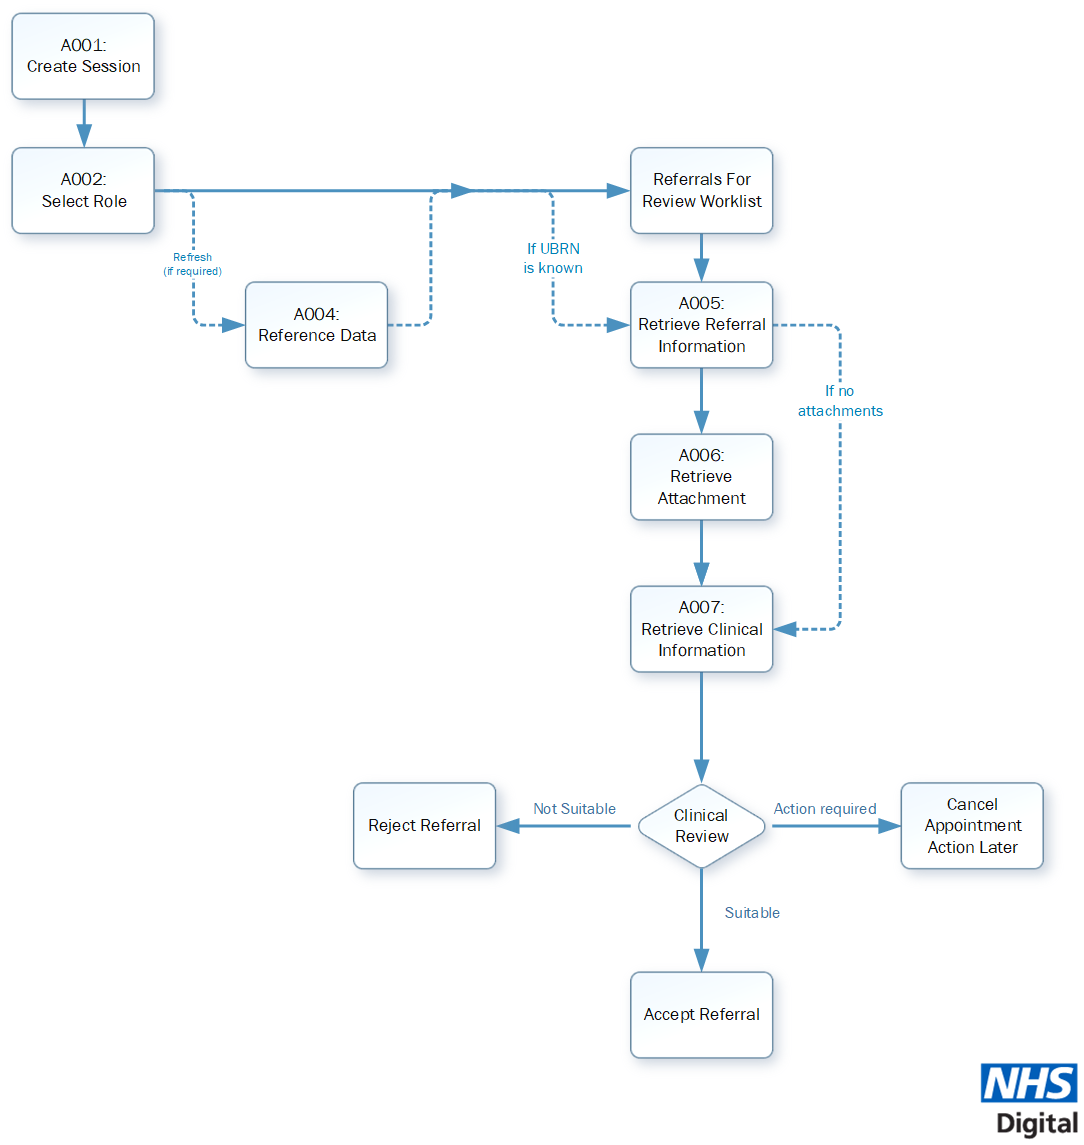
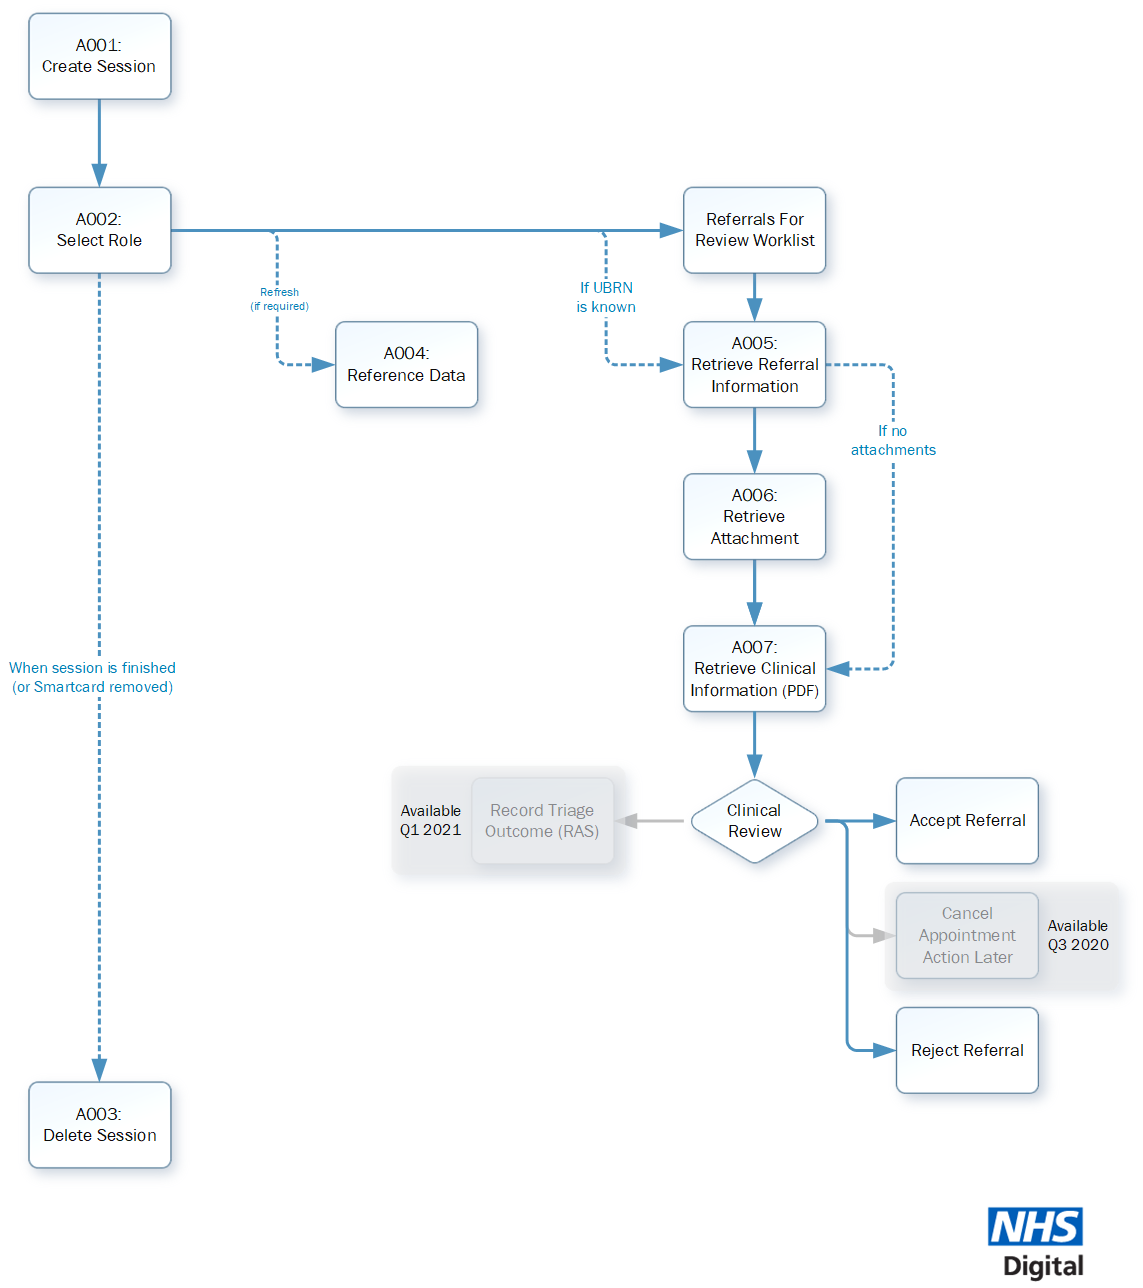
Various content updates

diff --git a/pages/getstarted/getstarted_get_connected.md b/pages/getstarted/getstarted_get_connected.md
@@ -16,63 +16,20 @@ To use the e-RS Integration APIs you must:
 3. Be issued with a unique Endpoint (and specific test data for use in development environments)
 
 ## How to get connected
-Follow the instructions listed [here](https://digital.nhs.uk/services/path-to-live-environments/development-environment) to connect to the NHS Digital Development Environment and request and endpoint, then you can access the following [NHS e-Referral Service (e-RS) URLs](https://digital.nhs.uk/services/path-to-live-environments/development-environment#development-nhs-e-referral-service-e-rs-urls) for development and testing.
+To get connected to the e-RS API Development environment you will need the following:
 
+- A connection to the Health and Social Care Network (HSCN) - the secure NHS network (if you do not have a connection or are experiencing problems connecting, contact your network provider)
+- Access to test data (email: testdata@nhs.net)
+- NHS Smartcards - if you do not have a valid smartcard for development please email: platforms.supportdesk@nhs.net
+- To register the messaging product using a Manufacturer, product and version (MPV) form if required
+- To register your message handling service with the Spine by requesting an endpoint (an authorised connection to Spine) to be created unless you have an endpoint administrator in your organisation who can do this for you - please complete the endpoint admin access request form (epr) to manage your own endpoints
+- To register your Fully Qualified Domain Name (FQDN) with the NHS DNS team
+- The Identity Agent Client software  
 
-<!--
-To request access to a test environment to connect to for development and testing purposes, please contact [platforms.supportdesk@nhs.net](mailto:platforms.supportdesk@nhs.net) and request the following:
+More detailed guidance of the connection process can be found [here](https://digital.nhs.uk/services/path-to-live-environments/development-environment). In all correspondence with NHS Digital please make it clear you are trying to connect to the **e-RS APIs in the development environment (DEV1)**.
 
-1. Access to the e-RS Integration APIs in the e-RS DEV1 development environment
-2. Allocation of an e-RS Integration API Test Pack for e-RS DEV1
-3. Issue of Smartcard(s) for e-RS development  
-  (If you already have smartcard please include the UUIDs so they can be re-used if possible)
+## Development URLs
+Once connected you can access the following [NHS e-Referral Service (e-RS) URLs](https://digital.nhs.uk/services/path-to-live-environments/development-environment#development-nhs-e-referral-service-e-rs-urls) for development and testing.
 
-#### Using existing smartcards
-Suppliers with existing smartcards in Spine Development can have these remotely updated with the relevant Registration Authority (RA), enabling the allocated UUIDs to be issued locally, please include your Spine Development UUID in your initial request to the Platforms Support Desk (platforms.supportdesk@nhs.net) if this is required.
-
-## Further details on connecting
-
-#### Generating a Certificate Signing Request
-
-You will also need to generate and submit a Certificate Signing Request (CSR) and a Private Key to obtain an endpoint certificate for the requested FQDN.
-
-1. The CSR must have a key length of 2048.
-2. The common name must be set to the FQDN value.
-
-We recommend using [OpenSSL](http://slproweb.com/products/Win32OpenSSL.html) for this.
-
-Once installed, Open Command Prompt and run the below command to configure the `openssl.cfg` file:
-
-```shell
-C:\OpenSSL-Win32\bin>set OPENSSL_CONF=C:\OpenSSL-Win32\bin\openssl.cfg
-```
-
-Change the directory to `C:\OpenSSL-Win32\bin` and run the below command to generate the CSR by replacing _"Test-FQDN"_ and the org code, e.g. _"O=ROB"_, with yours:
-
-```shell
-openssl req -new -newkey rsa:2048 -nodes -out Test-FQDN.cfh.nhs.uk.csr -keyout Test-FQDN.cfh.nhs.uk.key -subj "/C=GB/ST=/L=na/O=ROB/OU=na/CN=Test-FQDN.cfh.nhs.uk"
-```
-
-The CSR along with the private key will be generated and available in `C:\OpenSSL-Win32\bin` folder as per the above FQDN details.
-
-Please specify alongside the request to the Platforms Support Desk the need to be allocated a ‘NHS e-RS-API Testing Pack’.
-
-#### Registry Settings ##
-
-Please install “IAConfig2.msi” by downloading the IAConfig.zip archive from [http://nww.hscic.gov.uk/dir/downloads/index.html#ia_config](http://nww.hscic.gov.uk/dir/downloads/index.html#ia_config) (Can only be accessed via N3)
-
-Once installed you should be able to apply the DEV Registry settings to access the e-RS/DEV1 environment.
-
-#### Identity Agent ##
-
-Please install the Identity Agent and Middleware from [http://nww.hscic.gov.uk/dir/downloads/index.html](http://nww.hscic.gov.uk/dir/downloads/index.html) (Can only be accessed via HSCN/N3)
-
-#### Unblocking IP addresses ##
-
-If you want to unblock certain IP addresses as part of this process, please email the [Platforms Support Desk](platforms.supportdesk@nhs.net).
-
-#### Installing ROOT and SUBCA Certificates
-
-Once you have received a certificate from our Platforms Support Desk you will need to follow a few simple steps that will allow you to begin your e-Referral Service Integration journey.
-
-You need to install ROOT and SUBCA certificates, download the [Certificate Installation Guide](https://developer.nhs.uk/wp-content/uploads/2018/01/Install-ROOTCA-and-SUBCA-certificates-v1.0.pdf) for more details. -->
+## Further assistance
+For further assistance with the connection process please contact [platforms.supportdesk@nhs.net](mailto:platforms.supportdesk@nhs.net). Alternatively, for assistance relating specifically to the e-RS APIs and their functionality please contact [nhserspartners@nhs.net](mailto:nhserspartners@nhs.net).  

diff --git a/pages/explore/creating_referrals.md b/pages/explore/creating_referrals.md
@@ -7,9 +7,9 @@ permalink: /creating_referrals.html
 summary: "How to create new e-referrals from within other systems using the e-RS integration APIs"
 ---
 
-###### Status: ![Live](images/icons/api_live.png)
+##### Status: ![Live](images/icons/api_live.png)
 
-#### Definition
+## Definition
 
 This page describes the APIs required to conduct a search for services relevant for the selected patient, create an e-referral with a shortlist of directly and/or in-directly bookable services or create an e-referral for a Referral Assessment Service (RAS). The APIs also allow for the initial upload of attachments (Sometimes known as "The referral letter") and generate a confirmation letter for the patient. The search limits results to services which are appropriate for patient and the referring organisation based on the commissioning rules that apply to the authenticated user and/or the patient.
 
@@ -21,25 +21,30 @@ The creation of an e-referral to a service set up as a RAS is different to other
 Clinical information should be collated into an attachment and added to the referral, it cannot currently be uploaded as separate structured data.   
 </div>   
 
-#### The following APIs can be used to create an e-referral
+## The following APIs can be used to create an e-referral
 
-##### Authentication and Authorisation
+### Authentication and Authorisation
 * [A001 – Create Professional Session](explore_endpoint_a001.html) ![Live](images/icons/api_live.png)
 * [A002 – Professional Session Select Role](explore_endpoint_a002.html) ![Live](images/icons/api_live.png)
 * [A003 – Delete Professional Session](explore_endpoint_a003.html) ![Live](images/icons/api_live.png)
 
-##### Reference Data
+### Reference Data
 * [A004 - Retrieve Reference Data (STU3)](explore_endpoint_a004.html) ![Live](images/icons/api_live.png)
 
-##### Create Referral
+### Create Referral
 * [A010 - Patient Service Search](explore_endpoint_a010.html) ![Live](images/icons/api_live.png)
 * [A011 - Create Referral](explore_endpoint_a011.html) ![Live](images/icons/api_live.png)
 * [A021 - Create Referral and Send for Triage](explore_endpoint_a021.html) ![Live](images/icons/api_live.png)
 * [A020 - Upload File To Document Store](explore_endpoint_a020.html) ![Live](images/icons/api_live.png)
 * [A012 - Maintain Referral Letter](explore_endpoint_a012.html) ![Live](images/icons/api_live.png)
-* [A019 - Generate Patient Letter](explore_endpoint_a019.html) ![Live](images/icons/api_live.png)
+* [A019 - Generate Patient Letter](explore_endpoint_a019.html) ![Live](images/icons/api_live.png) with shortlist and details of how to book an appointment.
 
+### Book Appointment
+* Search for appointment slots (Coming in Q4 2020)
+* Book appointment slot (Coming in Q4 2020)
+* Defer booking to provider, if no slots are available (Coming in Q4 2020)
+* Generate patient letter with appointment confirmation details (Coming in Q4 2020)
 
-#### Logical Process Diagram
+## Logical Process Diagram
 
 ![Creating Referrals](images/explore/creating_referrals.png)

diff --git a/pages/explore/explore_endpoint_catalogue.md b/pages/explore/explore_endpoint_catalogue.md
@@ -4,7 +4,7 @@ keywords: endpoint, catalogue
 sidebar: overview_sidebar
 toc: false
 permalink: /explore_endpoint_catalogue.html
-summary: "Catalogue of all currently available external e-Referral API endpoints"
+summary: "Catalogue of all currently available external NHS e-Referral Service (e-RS) API endpoints"
 ---
 
 ## Live FHIR v3 APIs  
@@ -43,13 +43,14 @@ summary: "Catalogue of all currently available external e-Referral API endpoints
 
 | ID | Name                                                   | Expected release | FHIR Version |
 |----|--------------------------------------------------------|:----------------:|:------------:|
-|A015|[Retrieve Appointment Slots](explore_endpoint_a015.html)|      Q3 2020     |     STU3     |
-|A016|[Book Appointment](explore_endpoint_a016.html)          |      Q3 2020     |     STU3     |
-|A017|[Defer Booking to Provider](explore_endpoint_a017.html) |      Q3 2020     |     STU3     |
-|A018|[Re-book Appointment](explore_endpoint_a018.html)       |      Q4 2020     |     STU3     |
+|A015|[Retrieve Appointment Slots](explore_endpoint_a015.html)|      Q4 2020     |     STU3     |
+|A016|[Book Appointment](explore_endpoint_a016.html)          |      Q4 2020     |     STU3     |
+|A017|[Defer Booking to Provider](explore_endpoint_a017.html) |      Q4 2020     |     STU3     |
+|A0XX|[UBRN List]()                                           |      Q4 2020     |     STU3     |
 
 ## Retired APIs
 
-| ID | Name | Status | Retirement Date |
-|----|------|--------| :-------------: |
-|A009|[Generic Service Search (Alpha)](explore_endpoint_a009.html)| ![Retired](images/icons/api_retired.png) | OCT 2019 |
+| ID | Name | Status | Retirement Date | Notes |
+|----|------|--------| :-------------: | ----- |
+|A009|[Generic Service Search (Alpha)](explore_endpoint_a009.html)| ![Retired](images/icons/api_retired.png) | OCT 2019 | Experimental API, not progressed to production |
+|A018|[Re-book Appointment (Alpha)](explore_endpoint_a018.html) | ![Retired](images/icons/api_retired.png) | JUN 2020 | Prototype API shelved for future development as required |

diff --git a/pages/explore/receiving_referrals.md b/pages/explore/receiving_referrals.md
@@ -9,7 +9,7 @@ summary: "How to receive e-referrals into other systems using the e-RS integrati
 
 #### Definition
 
-This page describes the functionality available for receiving e-referrals into external software systems including how to retrieve the "Referrals for Review" worklist, the Clinical Referral Information (CRI) and any referral attachments (Sometimes known as "The referral letter") from the NHS e-Referral Service (e-RS). Further APIs also allow sending the result of a clinical review back to e-RS (i.e. Accept or Reject). These APIs have been developed in accordance with the [FHIR STU3](http://hl7.org/fhir/STU3/) specification, guidance for developers is available online [here](http://hl7.org/fhir/STU3/overview-dev.html).
+This page describes the functionality available for receiving e-referrals into other software systems including how to retrieve the "Referrals for Review" worklist, the Clinical Referral Information (CRI) and any referral attachments (Sometimes known as "The referral letter") from the NHS e-Referral Service (e-RS). Further APIs also allow sending the result of a clinical review back to e-RS (i.e. Accept or Reject). These APIs have been developed in accordance with the [FHIR STU3](http://hl7.org/fhir/STU3/) specification, guidance for developers is available online [here](http://hl7.org/fhir/STU3/overview-dev.html).
 
 #### The following APIs are used to receive e-referrals from e-RS
 
@@ -31,6 +31,7 @@ This page describes the functionality available for receiving e-referrals into e
 * [A013 – Accept Referral](explore_endpoint_a013.html) ![Live](images/icons/api_live.png)
 * [A014 – Reject Referral](explore_endpoint_a014.html) ![Live](images/icons/api_live.png)
 * [A022: Cancel Appointment, Action Later](explore_endpoint_a022.html) *(Available Q3 2020)*
+* Record triage outcome (for RAS) *(Coming in Q1 2021)*
 
 
 #### Logical Process Diagram

diff --git a/pages/business_flows/develop_business_flow_bf001.md b/pages/business_flows/develop_business_flow_bf001.md
@@ -7,21 +7,21 @@ permalink: /develop_business_flow_bf001.html
 summary: "Business flows and their related endpoints"
 ---
 
-###### Status: ![Live](images/icons/api_live.png)
+##### Status: ![Live](images/icons/api_live.png)
 
-#### Definition
+## Definition
 
 This business flow describes the process of creating an authorised professional API session based upon an authenticated Care identify Service (CIS) smartcard. It makes use of the following NHS e-RS API Endpoints in order, with persisted rights to undertake further business workflows until the session is terminated.
 
-### Using the identity agent
+## Using the identity agent
 Guidance on using the identity agent and authenticating with NHS Smartcards can be found at [developer.nhs.uk/apis/spine-core/smartcards.html](https://developer.nhs.uk/apis/spine-core/smartcards.html)
 
-#### This business flow involves the following APIs
+## This business flow involves the following APIs
 
-* [A001 – Create Professional Session](explore_endpoint_a001.html) ![Live](images/icons/api_live.png)
-* [A002 – Professional Session Select Role](explore_endpoint_a002.html) ![Live](images/icons/api_live.png)
-* [A003 – Delete Professional Session](explore_endpoint_a003.html) ![Live](images/icons/api_live.png)
+* [A001: Create Professional Session](explore_endpoint_a001.html) ![Live](images/icons/api_live.png)
+* [A002: Professional Session Select Role](explore_endpoint_a002.html) ![Live](images/icons/api_live.png)
+* [A003: Delete Professional Session](explore_endpoint_a003.html) ![Live](images/icons/api_live.png)
 
-#### Review the diagram below to learn more
+## Review the diagram below to learn more
 
 ![BF001: Authentication and Authorisation](images/develop/BF001-Auth.jpg)

diff --git a/pages/endpoints/explore_endpoint_a003.md b/pages/endpoints/explore_endpoint_a003.md
@@ -7,7 +7,7 @@ permalink: explore_endpoint_a003.html
 summary: false
 ---
 
-##### Status: ![Live](images/icons/api_live.png)
+#### Status: ![Live](images/icons/api_live.png)
 
 ## Description
 Closes the Professional Session. Used to delete a Professional Session after it has been created using A001 & A002. Once deleted the associate Session ID will become invalid.
@@ -42,7 +42,7 @@ HTTP_X_SESSION_KEY:pro-xapi-session_5a399946-23c5-4543-8c4f-7eca38732a58
 If successful the response code 204 (No Content) is returned. This response has no body.
 
 
-## Notes
+### Note:
 Consuming application must have a valid session in order to access this endpoint.
 
 
